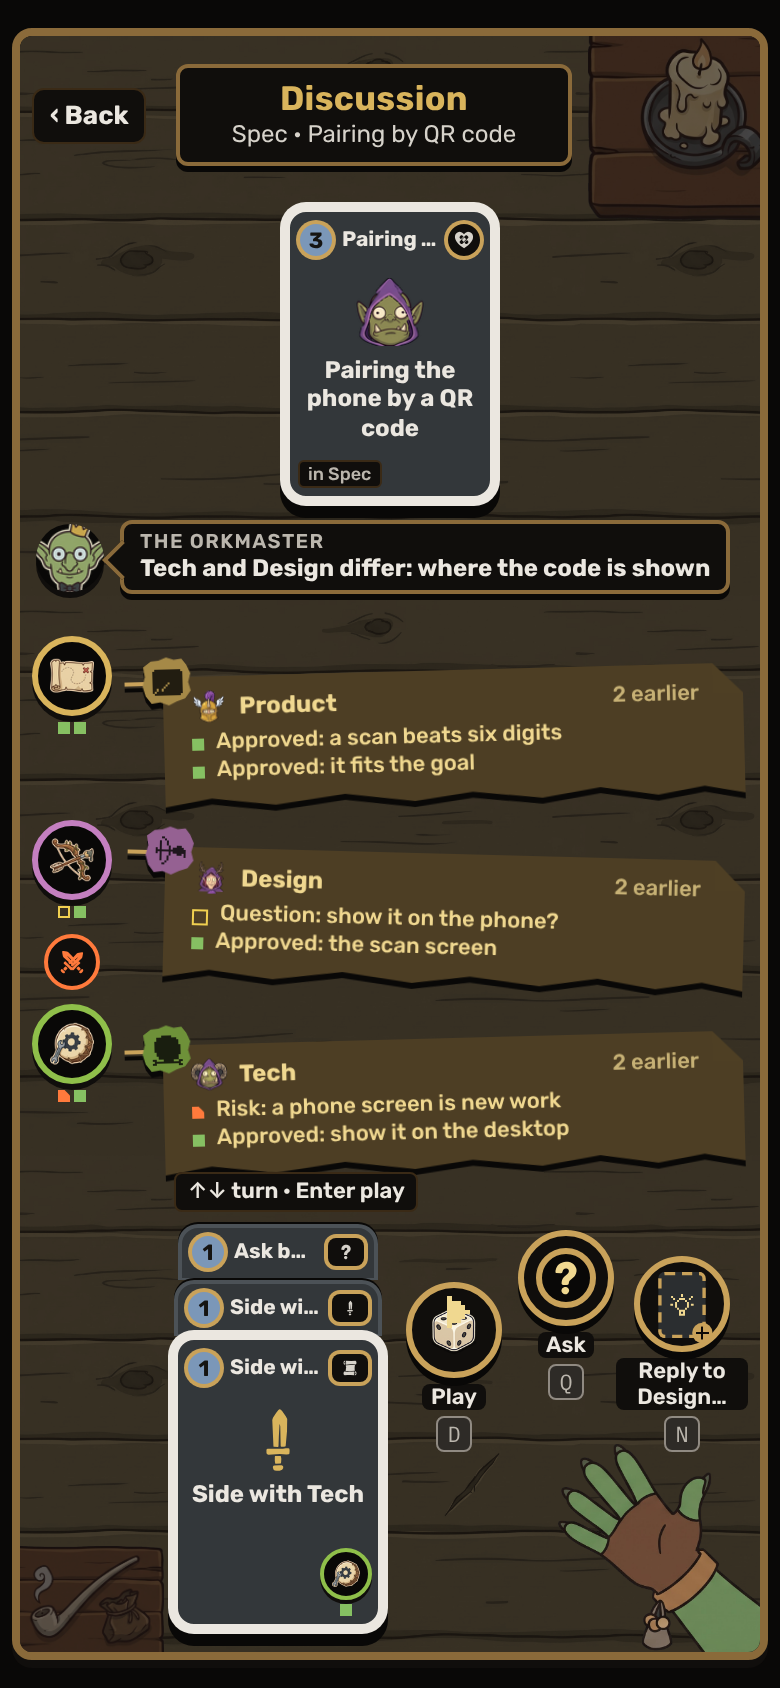
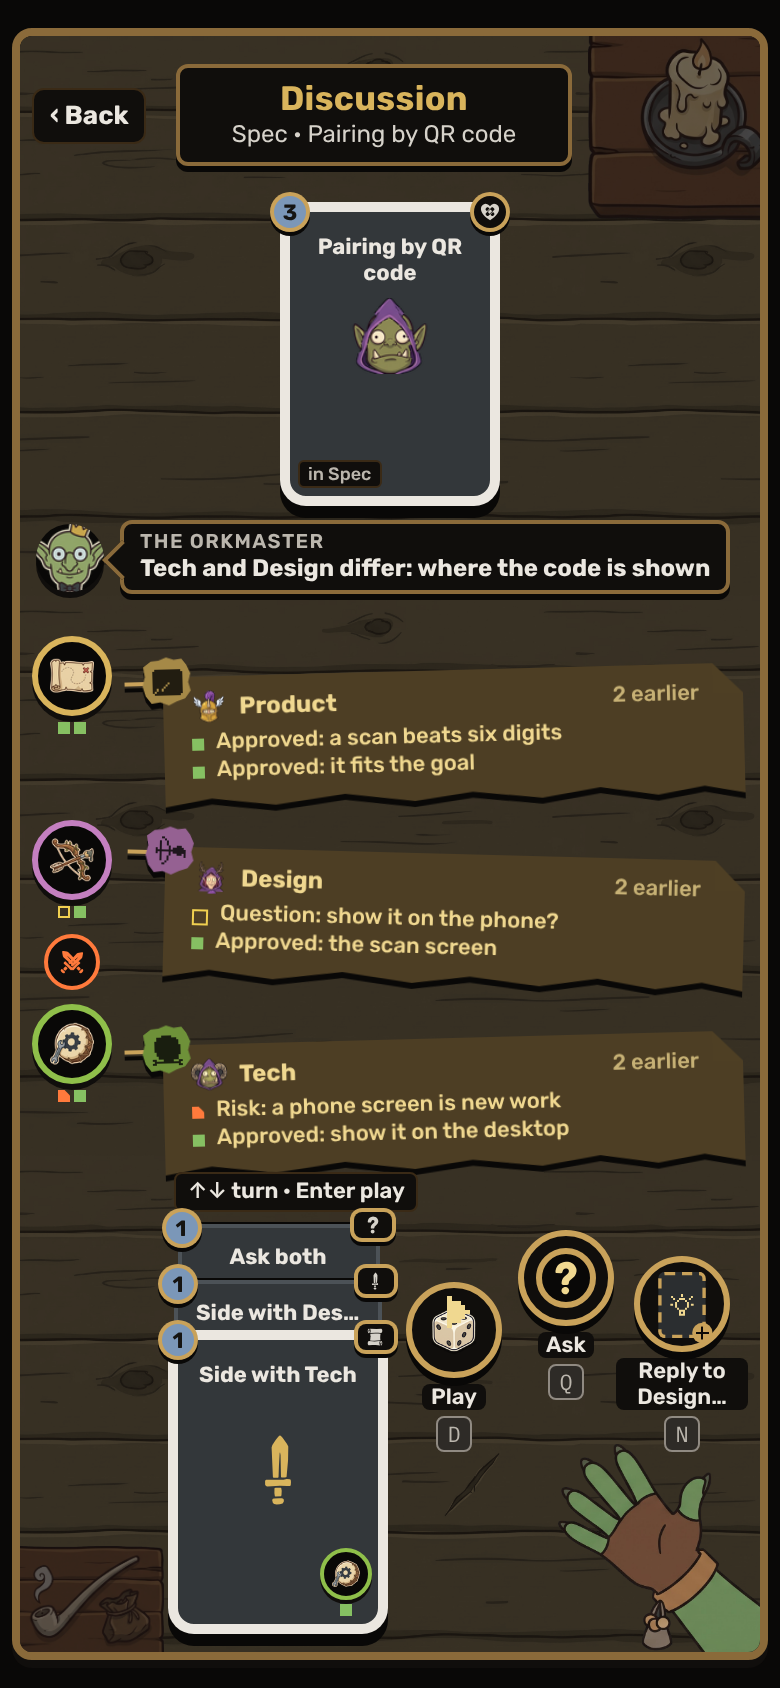
Mat mockups round 7, work in progress
Claude-Session: https://claude.ai/code/session_01MCU3dnmwpxzAdFr5WE7TTZ

Changed region(s): [[0.1846, 0.7085, 0.5231, 0.8934], [0.3385, 0.0924, 0.6462, 0.2773]]

diff --git a/docs/mockups/mat-scenes/scheme.html b/docs/mockups/mat-scenes/scheme.html
@@ -161,7 +161,7 @@ body[data-face="phone"] .fpanel .btns { flex-direction: row; gap: 6px; margin-to
 .card { --g: 18px; padding: 36px 4px 24px; gap: 2px; }
 .gw.tl { left: -9px; top: -9px; } .gw.tr { right: -9px; top: -9px; }
 .card b.t, .deck .card b.t { position: absolute; left: 10px; right: 10px; top: 5px; min-height: 30px; margin: 0; font: 700 12px/14px var(--ork-font-text); white-space: normal; display: flex; align-items: center; justify-content: center; text-align: center; }
-.strip .card b.t { min-height: 0; top: 2px; height: 16px; left: 8px; right: 8px; font-size: 10.5px; line-height: 16px; white-space: nowrap; }
+.strip .card b.t { min-height: 0; top: 2px; height: 16px; left: 6px; right: 6px; font-size: 10px; line-height: 16px; white-space: nowrap; }
 .card .hd { width: 44px; height: 44px; margin-top: 0; }
 .when { bottom: 14px; }
 .card.inpocket { padding-top: 34px; }
@@ -184,7 +184,7 @@ body[data-face="phone"] .fpanel .btns { flex-direction: row; gap: 6px; margin-to
 .sl svg { position: absolute; inset: 0; width: 100%; height: 100%; }
 body[data-face="phone"] .sl { width: 16px; height: 16px; } body[data-face="phone"] .sl > i { width: 10px; height: 10px; }
 .pocket { isolation: isolate; height: 148px; }
-.pocket .cards { gap: 18px; }
+.pocket .cards { gap: 22px; }
 .pocket .front { height: 52px; }
 .pocket .plus { top: 36px; }
 .here { bottom: 8px; }

diff --git a/docs/mockups/mat-scenes/slots.html b/docs/mockups/mat-scenes/slots.html
@@ -162,7 +162,7 @@ body[data-face="phone"] .relbox { position: absolute; right: 8px; top: 8px; widt
 .card { --g: 18px; padding: 36px 4px 24px; gap: 2px; }
 .gw.tl { left: -9px; top: -9px; } .gw.tr { right: -9px; top: -9px; }
 .card b.t, .deck .card b.t { position: absolute; left: 10px; right: 10px; top: 5px; min-height: 30px; margin: 0; font: 700 12px/14px var(--ork-font-text); white-space: normal; display: flex; align-items: center; justify-content: center; text-align: center; }
-.strip .card b.t { min-height: 0; top: 2px; height: 16px; left: 8px; right: 8px; font-size: 10.5px; line-height: 16px; white-space: nowrap; }
+.strip .card b.t { min-height: 0; top: 2px; height: 16px; left: 6px; right: 6px; font-size: 10px; line-height: 16px; white-space: nowrap; }
 .card .hd { width: 44px; height: 44px; margin-top: 0; }
 .when { bottom: 14px; }
 .card.inpocket { padding-top: 34px; }
@@ -185,7 +185,7 @@ body[data-face="phone"] .relbox { position: absolute; right: 8px; top: 8px; widt
 .sl svg { position: absolute; inset: 0; width: 100%; height: 100%; }
 body[data-face="phone"] .sl { width: 16px; height: 16px; } body[data-face="phone"] .sl > i { width: 10px; height: 10px; }
 .pocket { isolation: isolate; height: 148px; }
-.pocket .cards { gap: 18px; }
+.pocket .cards { gap: 22px; }
 .pocket .front { height: 52px; }
 .pocket .plus { top: 36px; }
 .here { bottom: 8px; }
